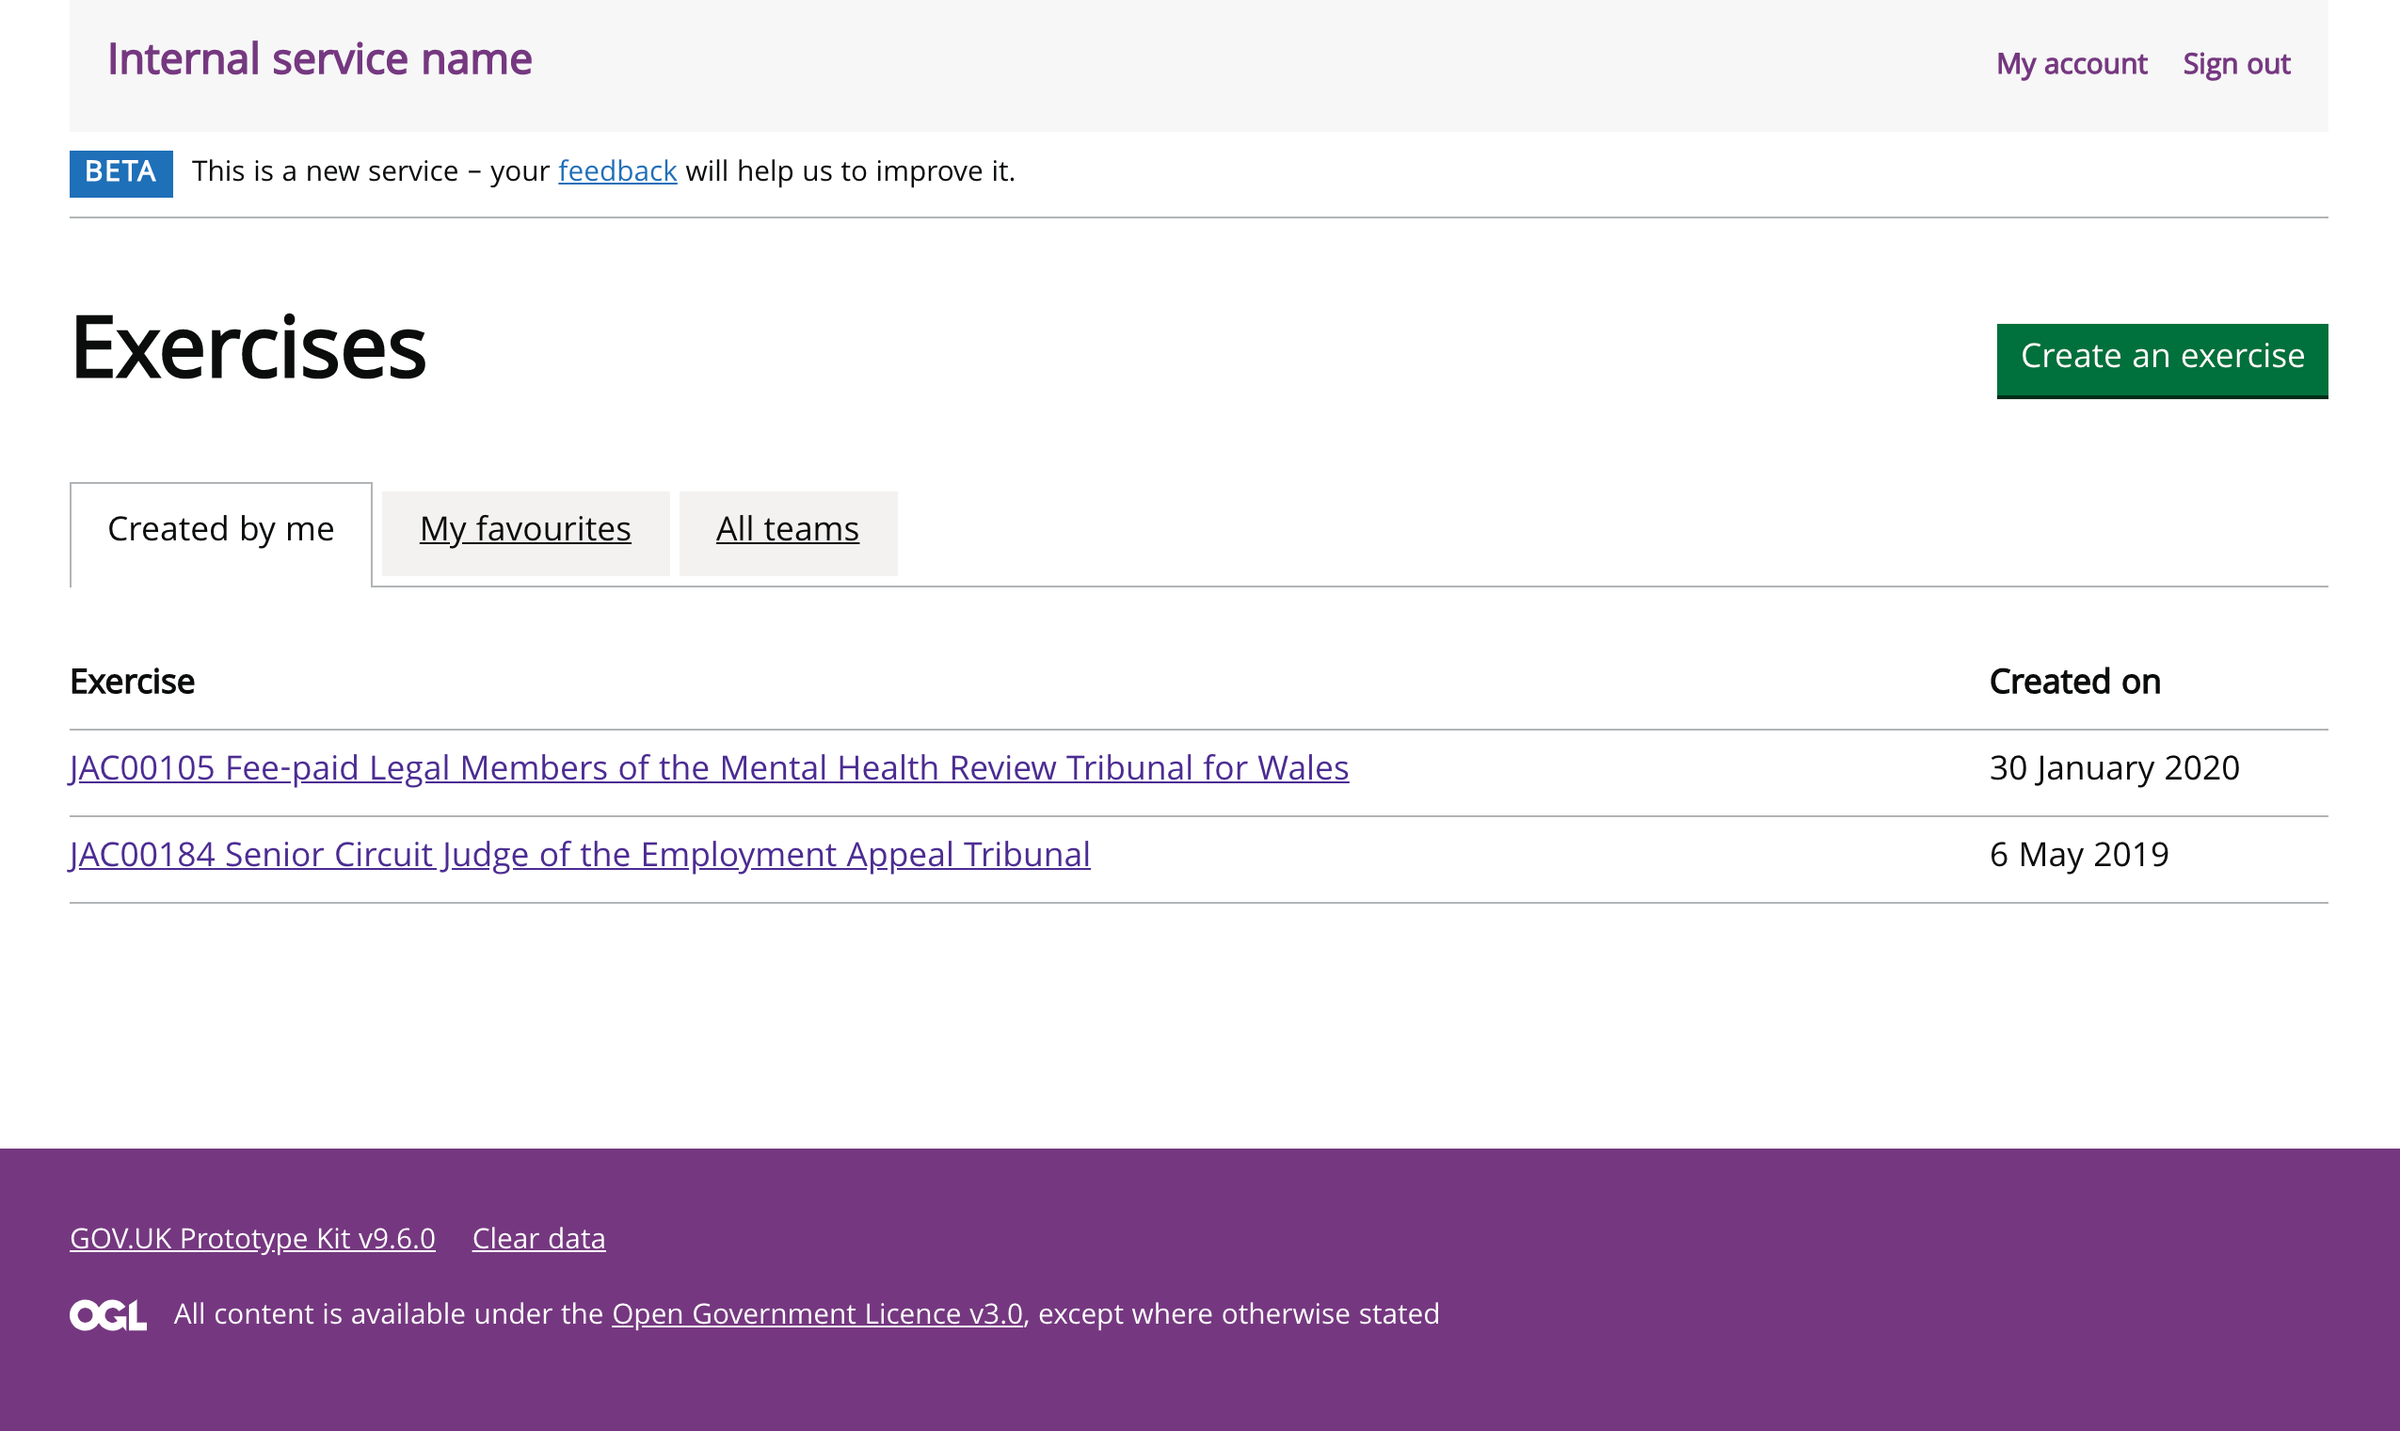
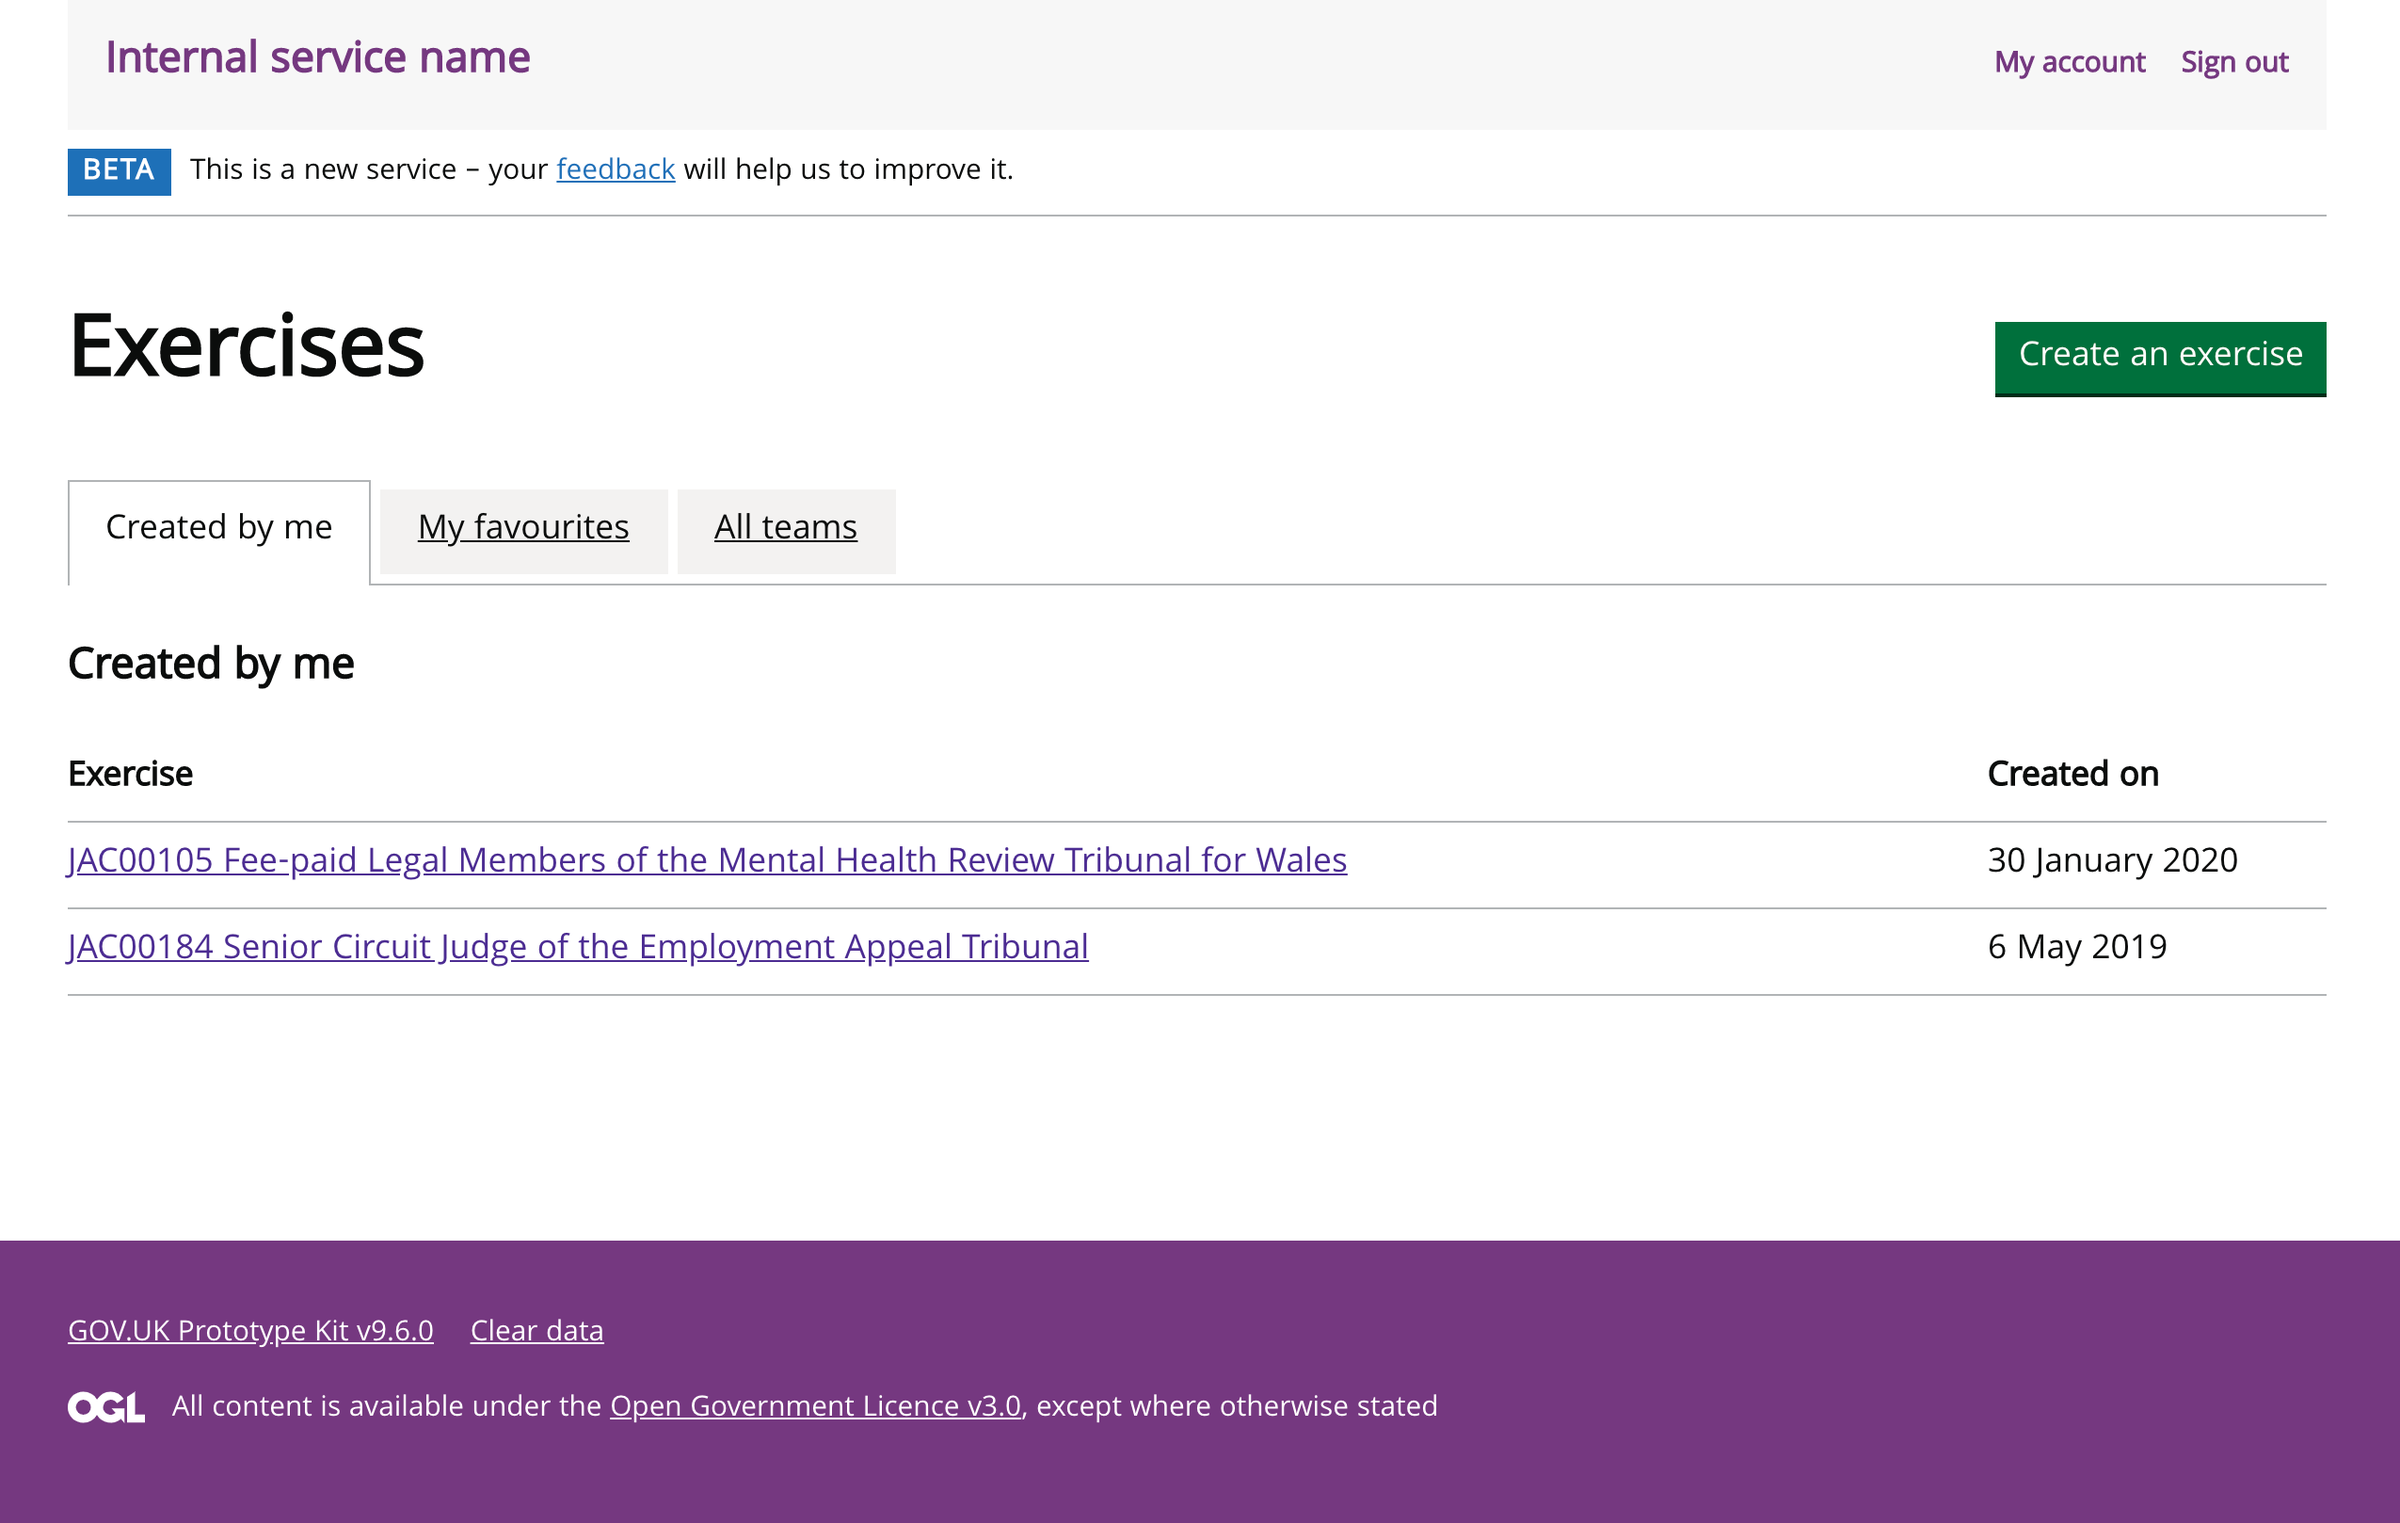
Updates to prototypes

diff --git a/app/views/current/view-reports/diversity/index.html b/app/views/current/view-reports/diversity/index.html
@@ -145,10 +145,7 @@
 				</ul>
 				<!-- Applied -->
 				<div class="govuk-tabs__panel" id="applied">
-					<!-- <h3 class="govuk-heading-m govuk-!-margin-bottom-6">Applied (100)</h3> -->
-					<!-- <h3 class="govuk-heading-m govuk-!-margin-bottom-6">Applied</h3>
-					<h4 class="govuk-heading-s">Data for 100 submitted applications (TBC)</h4>
-					<p class="govuk-body">Data for 100 submitted applications (TBC).</p> -->
+					<h3 class="govuk-heading-m">Applied</h3>
 					<table class="govuk-table">
 						<caption class="govuk-table__caption hidden">Gender by applied stage</caption>
 						<thead class="govuk-table__head">
@@ -284,10 +281,7 @@
 				</div>
 				<!-- Shortlisted -->
 				<div class="govuk-tabs__panel govuk-tabs__panel--hidden" id="shortlisted">
-					<!-- <h3 class="govuk-heading-m govuk-!-margin-bottom-6">Shortlisted (50)</h3> -->
-					<!-- <h3 class="govuk-heading-m govuk-!-margin-bottom-6">Shortlisted</h3>
-					<h4 class="govuk-heading-s">Data for 50 applications that were shortlisted (TBC)</h4>
-					<p class="govuk-body">Data for 50 applications that were shortlisted (TBC).</p> -->
+					<h3 class="govuk-heading-m">Shortlisted</h3>
 					<table class="govuk-table">
 						<caption class="govuk-table__caption hidden">Gender by shortlisted stage</caption>
 						<thead class="govuk-table__head">
@@ -423,10 +417,7 @@
 				</div>
 				<!-- Selected -->
 				<div class="govuk-tabs__panel govuk-tabs__panel--hidden" id="selected">
-					<!-- <h3 class="govuk-heading-m govuk-!-margin-bottom-6">Selected (30)</h3> -->
-					<!-- <h3 class="govuk-heading-m govuk-!-margin-bottom-6">Selected</h3>
-					<h4 class="govuk-heading-s">Data for 30 applications that were selected (TBC)</h4>
-					 <p class="govuk-body">Data for 30 applications that were selected (TBC).</p> -->
+					<h3 class="govuk-heading-m">Selected</h3>
 					<table class="govuk-table">
 						<caption class="govuk-table__caption hidden">Gender by selected stage</caption>
 						<thead class="govuk-table__head">
@@ -562,10 +553,7 @@
 				</div>
 				<!-- Recommended -->
 				<div class="govuk-tabs__panel govuk-tabs__panel--hidden" id="recommended">
-					<!-- <h3 class="govuk-heading-m govuk-!-margin-bottom-6">Recommended (20)</h3> -->
-					<!-- <h3 class="govuk-heading-m govuk-!-margin-bottom-6">Recommended</h3>
-					<h4 class="govuk-heading-s">Data for 20 applications that were recommended (TBC)</h4>
-					<p class="govuk-body">Data for 20 applications that were recommended (TBC).</p> -->
+					<h3 class="govuk-heading-m">Recommended</h3>
 					<table class="govuk-table">
 						<caption class="govuk-table__caption hidden">Gender by recommended stage</caption>
 						<thead class="govuk-table__head">
@@ -701,10 +689,7 @@
 				</div>
 				<!-- Handover -->
 				<div class="govuk-tabs__panel govuk-tabs__panel--hidden" id="handover">
-					<!-- <h3 class="govuk-heading-m govuk-!-margin-bottom-6">Handover (10)</h3> -->
-					<!-- <h3 class="govuk-heading-m govuk-!-margin-bottom-6">Handover</h3>
-					<h4 class="govuk-heading-s">Data for 10 applications that were awarded the role (TBC)</h4>
-					<p class="govuk-body">Data for 10 applications that were awarded the role (TBC).</p> -->
+					<h3 class="govuk-heading-m">Handover</h3>
 					<table class="govuk-table">
 						<caption class="govuk-table__caption hidden">Gender by handover stage</caption>
 						<thead class="govuk-table__head">

diff --git a/app/views/current/view-candidate-profile-history/max-talbot.html b/app/views/current/view-candidate-profile-history/max-talbot.html
@@ -116,6 +116,7 @@
 								<p class="govuk-body govuk-!-font-weight-bold govuk-!-margin-bottom-0">Date</p>
 								<p class="govuk-body">14 May 2018</p>
 							</dd>
+							<!-- <dd class="govuk-summary-list__actions">&nbsp;</dd> -->
 						</div>
 						<div class="govuk-summary-list__row">
 							<dt class="govuk-summary-list__key no-border">&nbsp;</dt>
@@ -123,14 +124,15 @@
 								<p class="govuk-body govuk-!-font-weight-bold govuk-!-margin-bottom-0">Declaration</p>
 								<p class="govuk-body">Late tax return penalty to HMRC.</p>
 							</dd>
+							<!-- <dd class="govuk-summary-list__actions">&nbsp;</dd> -->
 						</div>
-
 						<div class="govuk-summary-list__row">
 							<dt class="govuk-summary-list__key no-border">&nbsp;</dt>
 							<dd class="govuk-summary-list__value">
 								<p class="govuk-body govuk-!-font-weight-bold govuk-!-margin-bottom-0  govuk-!-margin-top-4">Date</p>
 								<p class="govuk-body">9 March 2017</p>
 							</dd>
+							<!-- <dd class="govuk-summary-list__actions">&nbsp;</dd> -->
 						</div>
 						<div class="govuk-summary-list__row">
 							<dt class="govuk-summary-list__key">&nbsp;</dt>
@@ -138,7 +140,41 @@
 								<p class="govuk-body govuk-!-font-weight-bold govuk-!-margin-bottom-0">Declaration</p>
 								<p class="govuk-body">SP30 3 penalty points and a fixed fine of £125.</p>
 							</dd>
+							<!-- <dd class="govuk-summary-list__actions">&nbsp;</dd> -->
 						</div>
+						<!-- <div class="govuk-summary-list__row">
+							<dt class="govuk-summary-list__key">Checks</dt>
+							<dd class="govuk-summary-list__value"><a href="checks" class="govuk-link">View</a></dd>
+						</div> 	
+						<div class="govuk-summary-list__row">
+							<dt class="govuk-summary-list__key">Checks</dt>
+							<dd class="govuk-summary-list__value">
+								<ul class="govuk-list govuk-list--bullet">
+									<li>ACRO</li>
+									<li>Solicitors Regulation Authority (SRA)</li>
+									<li>Bar Standards Board (BSB)</li>
+									<li>Judicial Conduct Investigations Office (JCIO)</li>
+									<li>HMRC</li>
+									<li>Other</li>
+								</ul>
+							</dd>
+							<dd class="govuk-summary-list__actions"><a class="govuk-link" href="checks">View</a></dd>
+						</div> -->
+
+						<div class="govuk-summary-list__row">
+							<dt class="govuk-summary-list__key">Checks</dt>
+							<dd class="govuk-summary-list__value">
+								<ul class="govuk-list">
+									<li><a class="govuk-link" href="checks#acro">ACRO</a></li>
+									<li><a class="govuk-link" href="checks#sra">Solicitors Regulation Authority (SRA)</a></li>
+									<li><a class="govuk-link" href="checks#bsb">Bar Standards Board (BSB)</a></li>
+									<li><a class="govuk-link" href="checks#jcio">Judicial Conduct Investigations Office (JCIO)</a></li>
+									<li><a class="govuk-link" href="checks#hmrc">HMRC</a></li>
+									<li><a class="govuk-link" href="checks#other">Other</a></li>
+								</ul>
+							</dd>
+						</div>
+						
 					</dl>
 					<h2 class="govuk-heading-l govuk-!-margin-top-8 govuk-!-margin-bottom-4">Eligibility</h2>
 					<dl class="govuk-summary-list">

diff --git a/app/views/current/view-candidate-profile-history/checks.html b/app/views/current/view-candidate-profile-history/checks.html
@@ -3,7 +3,33 @@
 {% block pageTitle %}Judical Appointments Commission - View reports - Max Talbot{% endblock %}
 
 {% block content %}
-{% include "includes/header.html" %}
+<div class="header-background clearfix">
+	<div class="header-title govuk-!-margin-bottom-2">
+		<a href="/" class="govuk-link govuk-link--no-visited-state govuk-!-font-size-24 govuk-!-font-weight-bold">Internal service name</a>
+		<nav class="float-right">
+			<ul id="navigation" class="govuk-header__navigation user-menu">
+				<li class="govuk-header__navigation-item">
+					<a class="govuk-header__link" href="#">Exercises</a>
+				</li>
+				<li class="govuk-header__navigation-item">
+					<a class="govuk-header__link" href="index">Candidates</a>
+				</li>
+				<li class="govuk-header__navigation-item">
+					<a class="govuk-header__link" href="#">My account</a>
+				</li>
+				<li class="govuk-header__navigation-item">
+					<a class="govuk-header__link" href="#">Sign out</a>
+				</li>
+			</ul>
+		</nav>
+	</div>
+</div>
+<div class="govuk-phase-banner">
+	<p class="govuk-phase-banner__content">
+		<strong class="govuk-tag govuk-phase-banner__content__tag">beta</strong>
+		<span class="govuk-phase-banner__text">This is a new service – your <a class="govuk-link govuk-link--no-visited-state" href="#">feedback</a> will help us to improve it.</span>
+	</p>
+</div>
 <form action="#" method="post">
 	<div class="govuk-grid-row">
 		<div class="govuk-grid-column-full">
@@ -91,7 +117,7 @@
 						<a href="#">Issues</a>
 					</li>
 					<li class="moj-side-navigation__item moj-side-navigation__item--active">
-						<a href="index">Character checks</a>
+						<a href="#">Character checks</a>
 					</li>
 				</ul>
 			</nav>

diff --git a/app/views/current/create-an-exercise/index.html b/app/views/current/create-an-exercise/index.html
@@ -38,7 +38,7 @@
 				</ul>
 				<!-- Created by me -->
 				<div class="govuk-tabs__panel govuk-tabs__panel--hidden" id="created-me">
-				  	<h2 class="govuk-heading-l hidden">Created by me</h2>
+				  	<h2 class="govuk-heading-m">Created by me</h2>
 				  	<table class="govuk-table">
 						<caption class="govuk-table__caption hidden">Created by me</caption>
 						<thead class="govuk-table__head">
@@ -61,7 +61,7 @@
 				</div>
 				<!-- My favourites -->
 				<div class="govuk-tabs__panel govuk-tabs__panel--hidden" id="my-favourites">		
-					<h2 class="govuk-heading-l hidden">My favourites</h2>
+					<h2 class="govuk-heading-m">My favourites</h2>
 					<table class="govuk-table">
 						<caption class="govuk-table__caption hidden">My favourites</caption>
 						<thead class="govuk-table__head">
@@ -84,7 +84,7 @@
 				</div>
 				<!-- All teams -->
 				<div class="govuk-tabs__panel" id="all-teams">
-					<h2 class="govuk-heading-l hidden">All teams</h2>
+					<h2 class="govuk-heading-m">All teams</h2>
 					<table class="govuk-table">
 						<caption class="govuk-table__caption hidden">All teams</caption>
 						<thead class="govuk-table__head">

diff --git a/app/views/current/view-reports/issues/index.html b/app/views/current/view-reports/issues/index.html
@@ -106,6 +106,7 @@
 				  	</li>
 				</ul>
 				<div class="govuk-tabs__panel" id="character">
+					<h3 class="govuk-heading-m">Character</h3>
 					<p class="govuk-body govuk-!-font-weight-bold govuk-!-margin-bottom-6">20 issues</p>
 					<!-- 1 -->
 					<span class="govuk-caption-m">Max Talbot</span>
@@ -258,6 +259,7 @@
 					<button class="govuk-button govuk-button--secondary govuk-!-margin-top-4" data-module="govuk-button" formaction="#">Download as PDF</button>
 				</div>
 				<div class="govuk-tabs__panel govuk-tabs__panel--hidden" id="eligibility">
+					<h3 class="govuk-heading-m">Eligibility</h3>
 					<p class="govuk-body govuk-!-font-weight-bold govuk-!-margin-bottom-6">5 issues</p>
 					<!-- 1 -->
 					<span class="govuk-caption-m">Max Talbot</span>

diff --git a/app/views/current/view-reports/diversity/changelog.html b/app/views/current/view-reports/diversity/changelog.html
@@ -21,6 +21,7 @@
 		<h1 class="govuk-heading-l govuk-!-margin-top-7">Changelog</h1>
 		<h2 class="govuk-heading-m">Diversity</h2>
 		<ul class="govuk-list govuk-list--bullet">
+			<li>Added <code>h3</code> headings to tab stages</li>
 			<li>Changed <code>Applied</code> stage to <code>Review</code> stage</li>
 		</ul>
 		<h2 class="govuk-heading-m govuk-!-margin-top-6">Different states</h2>
